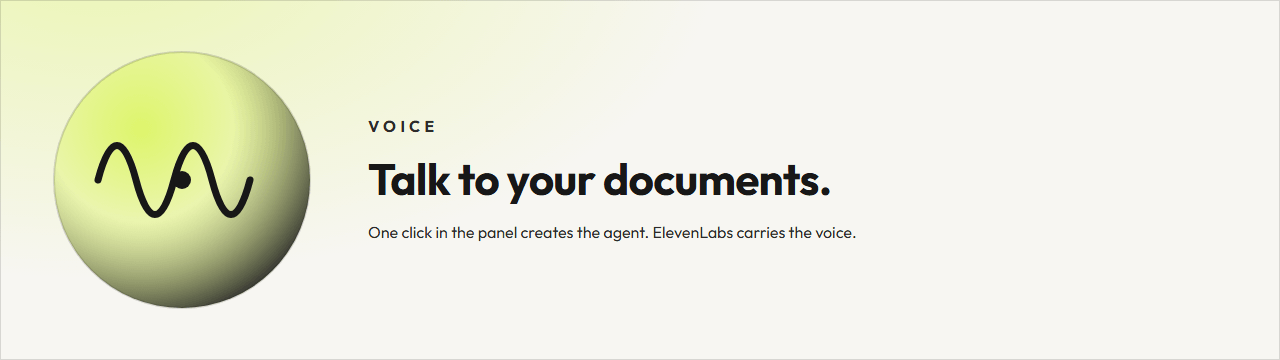
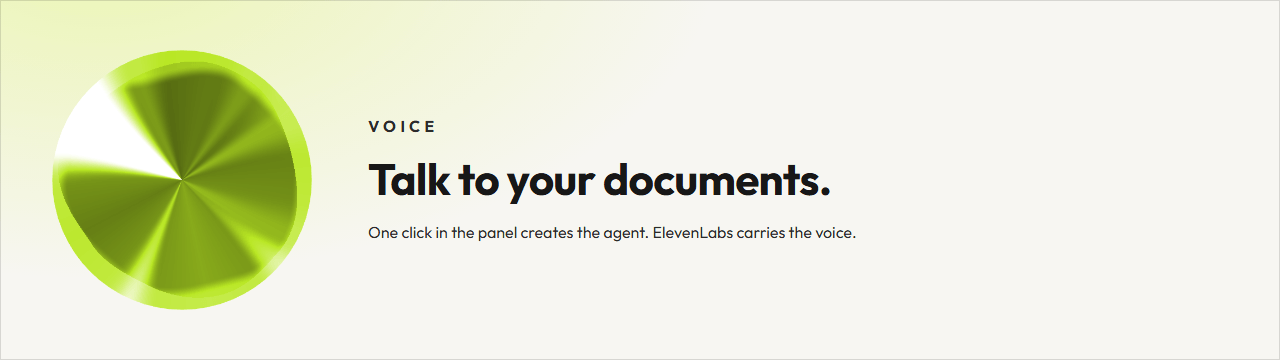
Show the real Orb of the panel in the voice teaser of the README
Franc asked for the ElevenLabs Orb in the voice section of the README. The
teaser still drew the placeholder of cited-identity-and-readme: an SVG sphere
with a sine wave. scripts/render-readme-orb.mjs now captures the Orb the panel
draws (components/ui/orb.tsx, the MIT Orb of ElevenLabs UI ported here) from
the test build: the agent speaks, prefers-reduced-motion freezes a frame, the
same frame is shot over black and over white to recover its alpha exactly, and
of eight frames the one with the least white is kept. The teaser lays that
image where the drawing was, in both themes.

OpenSpec change: readme-real-orb (review and acceptance still open).

Changed region(s): [[0.0312, 0.1222, 0.25, 0.8861]]

diff --git a/scripts/readme-graphics/voice-teaser.html b/scripts/readme-graphics/voice-teaser.html
@@ -1,19 +1,8 @@
 <div class="page">
   <div class="voice-row">
     <div class="orb-wrap">
-      <svg class="orb" viewBox="0 0 260 260" fill="none" xmlns="http://www.w3.org/2000/svg">
-        <defs>
-          <radialGradient id="orb-core" cx="34%" cy="30%" r="78%">
-            <stop offset="0%" stop-color="#DDF469" stop-opacity="0.98" />
-            <stop offset="46%" stop-color="#DDF469" stop-opacity="0.44" />
-            <stop offset="100%" stop-color="#171717" stop-opacity="0.92" />
-          </radialGradient>
-        </defs>
-        <circle cx="130" cy="130" r="128" fill="url(#orb-core)" />
-        <circle class="orb-ring" cx="130" cy="130" r="128" />
-        <path class="orb-wave" d="M46 130c12-46 26-46 38 0s26 46 38 0 26-46 38 0 26 46 38 0" />
-        <circle class="orb-core" cx="130" cy="130" r="9" />
-      </svg>
+      <!-- The real Orb of the panel, captured by scripts/render-readme-orb.mjs (docs/images/voice/orb.json). -->
+      <img class="orb" src="{{ORB}}" alt="" />
     </div>
     <div class="voice">
       <div class="eyebrow">Voice</div>

diff --git a/openspec/changes/readme-real-orb/reports/2026-09-30-readme-real-orb.md b/openspec/changes/readme-real-orb/reports/2026-09-30-readme-real-orb.md
@@ -1,0 +1,58 @@
+# readme-real-orb: evidence (2026-09-30)
+
+Branch `feature/readme-real-orb` from `origin/main` `8b0c77f`.
+
+## The capture
+
+```
+npm run build:e2e
+# verify-no-test-sdk: OK: the test SDK is in the browser output (2 file(s)) and the real package is not.
+EMBEDDINGS_PROVIDER=fake CHAT_PROVIDER=fake DATABASE_URL=.data/orb-capture.sqlite ELEVENLABS_API_KEY= \
+  ELEVENLABS_AGENT_ID= ELEVENLABS_VOICE_ID= VOICE_TOOL_SECRET= npm start -- --port 3200
+node scripts/render-readme-orb.mjs
+frame 1: 15.1% of the sphere is white
+frame 2: 13.2% of the sphere is white
+frame 3: 13.0% of the sphere is white
+frame 4: 11.1% of the sphere is white
+frame 5: 12.2% of the sphere is white
+frame 6: 12.4% of the sphere is white
+frame 7: 11.1% of the sphere is white
+frame 8: 10.0% of the sphere is white
+wrote docs/images/voice/orb.png (468 x 468, frame 8) and docs/images/voice/orb.json
+```
+
+The signed URL of ElevenLabs is answered inside the browser by the script, as in `render-voice-captures.mjs`, and the
+build carries the test SDK: no session with ElevenLabs was opened. Before the script existed, a probe checked that a
+frame frozen by `prefers-reduced-motion` gives two identical shots on the same ground (difference box `None`) and that
+the alpha recovered from the two grounds agrees on the three channels (largest disagreement `0.0`).
+
+## The teaser
+
+```
+node scripts/render-readme-graphics.mjs voice-teaser
+rendered docs/images/voice-teaser-dark.png (35320 bytes, smallest text 16px, 1 headlines, empty band 50px of 90px)
+rendered docs/images/voice-teaser-light.png (37350 bytes, smallest text 16px, 1 headlines, empty band 50px of 90px)
+rendered only voice-teaser: the record is left as it is.
+```
+
+The same run rewrote the quick start of `README.md` and `README.es.md` with new timings only (`30 ms` to `43 ms` and
+the like); those two files were restored, so the README stays in step with `docs/images/readme-graphics.json`.
+
+## Checks
+
+```
+npx vitest run tests/readme.test.ts tests/design-system.test.ts   # 2 files, 62 passed
+npx vitest run                                                    # 1018 passed in the last two runs; see Issues
+npx eslint scripts/render-readme-orb.mjs scripts/render-readme-graphics.mjs   # exit 0
+openspec validate --all --strict                                  # 14 passed, 0 failed
+openspec validate readme-real-orb --strict                        # valid
+```
+
+## Issues
+
+- NOT DONE: the adversarial review by a session that did not write the change (task 4.1), and Franc's acceptance.
+- UNKNOWN: the first full run of `npx vitest run` reported one failed test out of 1018, while the capture server was
+  still running on port 3200; the runs after it showed no failure, the last two passing 1018 of 1018. Its name was not
+  kept, so it may be a flaky test of the base or an effect of the busy machine.
+- RISK: the frozen frame depends on the timing of the animation, so a new run of the capture gives a similar but not
+  identical Orb; the image in the repository is the record, and `orb.json` says which frame of the run was kept.

diff --git a/openspec/changes/readme-real-orb/proposal.md b/openspec/changes/readme-real-orb/proposal.md
@@ -1,0 +1,24 @@
+## Why
+
+Franc, 2026-09-30, looking at the README on GitHub: "en el readme en voice usa el orb de elevenlabs". The teaser of the
+voice agent (`docs/images/voice-teaser-*.png`) still draws the placeholder of `cited-identity-and-readme`: an Orb-like
+sphere of SVG gradients with a sine wave on it, made before the voice agent existed. The voice agent now ships the real
+Orb (`components/ui/orb.tsx`, the MIT Orb of ElevenLabs UI ported in this repository), so the teaser can show the thing
+itself instead of a drawing of it, the same rule the captures of the panel already follow.
+
+## What Changes
+
+- `scripts/render-readme-orb.mjs` opens the voice panel of the test build (`npm run build:e2e`, the test SDK in place of
+  `@elevenlabs/react`, no session with ElevenLabs), lets the agent speak, freezes the Orb with `prefers-reduced-motion`
+  (the `reducedMotion` prop of the port) and shoots the same frame over black and over white. The two shots give back
+  the alpha of every pixel exactly; of eight frozen frames it keeps the one with the least white, and writes
+  `docs/images/voice/orb.png` with `docs/images/voice/orb.json` (component, colours, state, method).
+- `scripts/readme-graphics/voice-teaser.html` lays that image where the SVG was; `scripts/render-readme-graphics.mjs`
+  embeds it as a data URI (the pages are set with `setContent`) and drops the styles of the drawing.
+- Both variants of the teaser are rendered again with `node scripts/render-readme-graphics.mjs voice-teaser`.
+
+## Impact
+
+- Files: the two scripts, the template, `docs/images/voice/orb.png`, `docs/images/voice/orb.json` and the two PNGs of
+  the teaser. No code of the application, no dependency added (`sharp` is the optional library the graphics script
+  already loads), no text of the README changes: its `alt` stays true.

diff --git a/openspec/changes/readme-real-orb/tasks.md b/openspec/changes/readme-real-orb/tasks.md
@@ -1,0 +1,29 @@
+Contract from Franc's own words (2026-09-30): "en el readme en voice usa el orb de elevenlabs". Written and carried out
+by Claude in the session of the landing, at Franc's direct request; the adversarial review is still to be done (see the
+report). A task is `[x]` only with evidence in `reports/2026-09-30-readme-real-orb.md`.
+
+## 0. Step 0: the branch
+
+- [x] 0.1 `feature/readme-real-orb`, created from `origin/main` at `8b0c77f`
+
+## 1. The capture
+
+- [x] 1.1 `scripts/render-readme-orb.mjs`: the panel of the test build, the agent speaking, eight frames frozen by
+      `prefers-reduced-motion`, each shot over black and over white, a frame that still moves refused, the one with the
+      least white kept; writes `docs/images/voice/orb.png` and `docs/images/voice/orb.json`
+
+## 2. The teaser
+
+- [x] 2.1 `scripts/readme-graphics/voice-teaser.html` lays the image where the SVG was; the graphics script embeds it
+      and drops the styles of the drawing
+- [x] 2.2 `node scripts/render-readme-graphics.mjs voice-teaser` renders both variants and passes its own checks
+
+## 3. Checks
+
+- [x] 3.1 `npx vitest run` (the README and design-system suites included), `npx eslint` on both scripts,
+      `openspec validate --all --strict`, gitleaks on the staged files
+
+## 4. Review and archive
+
+- [ ] 4.1 Adversarial review of the change by a session that did not write it
+- [ ] 4.2 Franc accepts; archive the change

diff --git a/openspec/changes/readme-real-orb/specs/project-readme/spec.md b/openspec/changes/readme-real-orb/specs/project-readme/spec.md
@@ -1,0 +1,20 @@
+## ADDED Requirements
+
+### Requirement: The voice teaser shows the real Orb
+
+The teaser of the voice agent SHALL show the Orb of the panel as the panel draws it (`components/ui/orb.tsx`, the Orb of
+ElevenLabs UI ported in this repository, in the colours of `ORB_COLORS`), captured from the running application with the
+test SDK, and never a drawing of an orb.
+
+#### Scenario: The teaser is rendered from a capture
+
+- **WHEN** `scripts/render-readme-orb.mjs` captures the Orb and `node scripts/render-readme-graphics.mjs voice-teaser`
+  renders the teaser
+- **THEN** both `docs/images/voice-teaser-dark.png` and `docs/images/voice-teaser-light.png` lay
+  `docs/images/voice/orb.png` on their ground, and `docs/images/voice/orb.json` records the component, the colours, the
+  state of the agent and how the alpha was recovered
+
+#### Scenario: A frame that still moves is refused
+
+- **WHEN** the Orb has not stopped between the two shots of a frame
+- **THEN** the capture stops with an error instead of combining two different frames into one image

diff --git a/docs/readme-assets.md b/docs/readme-assets.md
@@ -71,7 +71,7 @@ five dark variants once came out painted white.
 | `how-it-works-{dark,light}.png` | 1280 × 480 | the flow of an answer, written and out loud |
 | `demo-{dark,light}.png` | 1280 × 560 | the real run of the quick start, with the first result in lime |
 | `roadmap-{dark,light}.png` | 1280 × 720 | the status table as a board, `Next` on the planned column |
-| `voice-teaser-{dark,light}.png` | 1280 × 360 | the voice: one click in the panel and ElevenLabs carries the voice |
+| `voice-teaser-{dark,light}.png` | 1280 × 360 | the voice: the real Orb of the panel (`docs/images/voice/orb.png`, captured by `scripts/render-readme-orb.mjs`), one click in the panel and ElevenLabs carries the voice |
 
 The roadmap is the only graphic whose layout is a little denser than the page of the others (`.roadmap` of the render
 script): the change `elevenlabs-voice-agent` moved the voice row from the planned column to the available one, and

diff --git a/docs/development-guide.md b/docs/development-guide.md
@@ -66,6 +66,11 @@ EMBEDDINGS_PROVIDER=fake CHAT_PROVIDER=fake npm start -- --port 3200
 node scripts/render-voice-captures.mjs <the directory of the captures> [http://127.0.0.1:3200]
 ```
 
+The same build and server give the Orb of the voice teaser of the README: `node scripts/render-readme-orb.mjs`
+freezes the real Orb of the panel, recovers its alpha from a shot over black and one over white, and writes
+`docs/images/voice/orb.png` with its record; `node scripts/render-readme-graphics.mjs voice-teaser` then draws the
+teaser with it.
+
 ## 4. Ports
 
 | Port | Used by |
